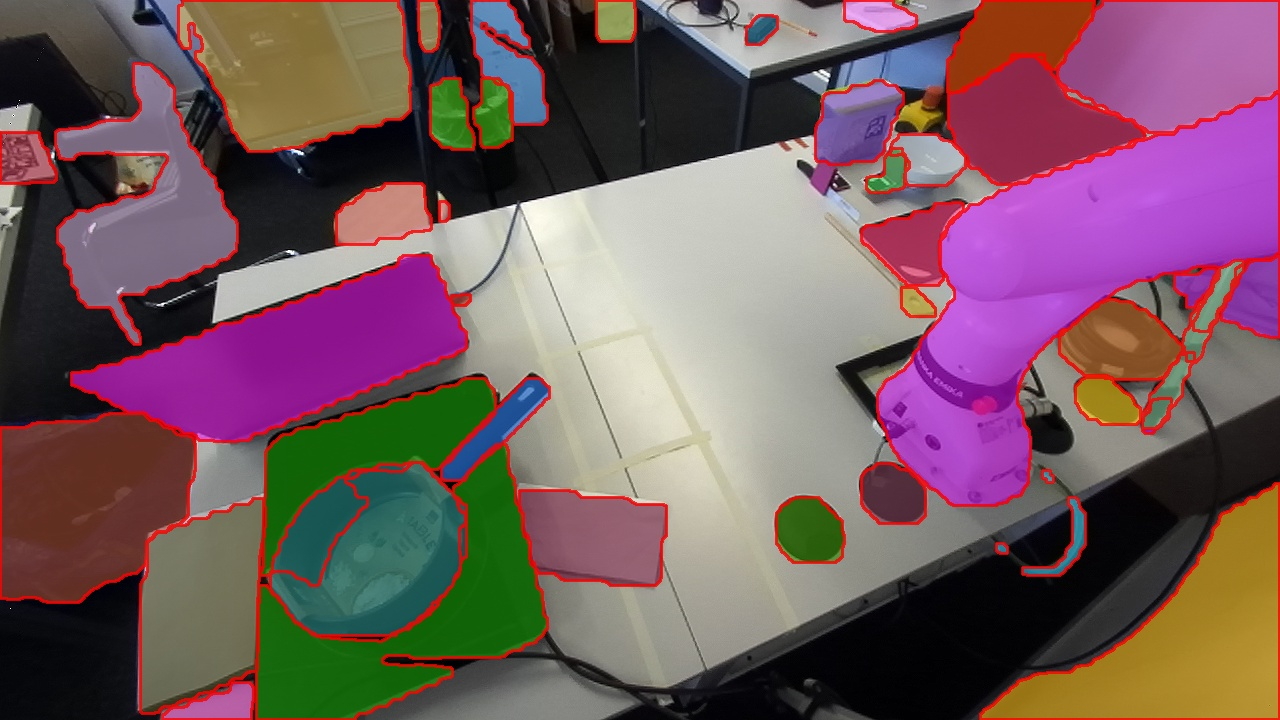
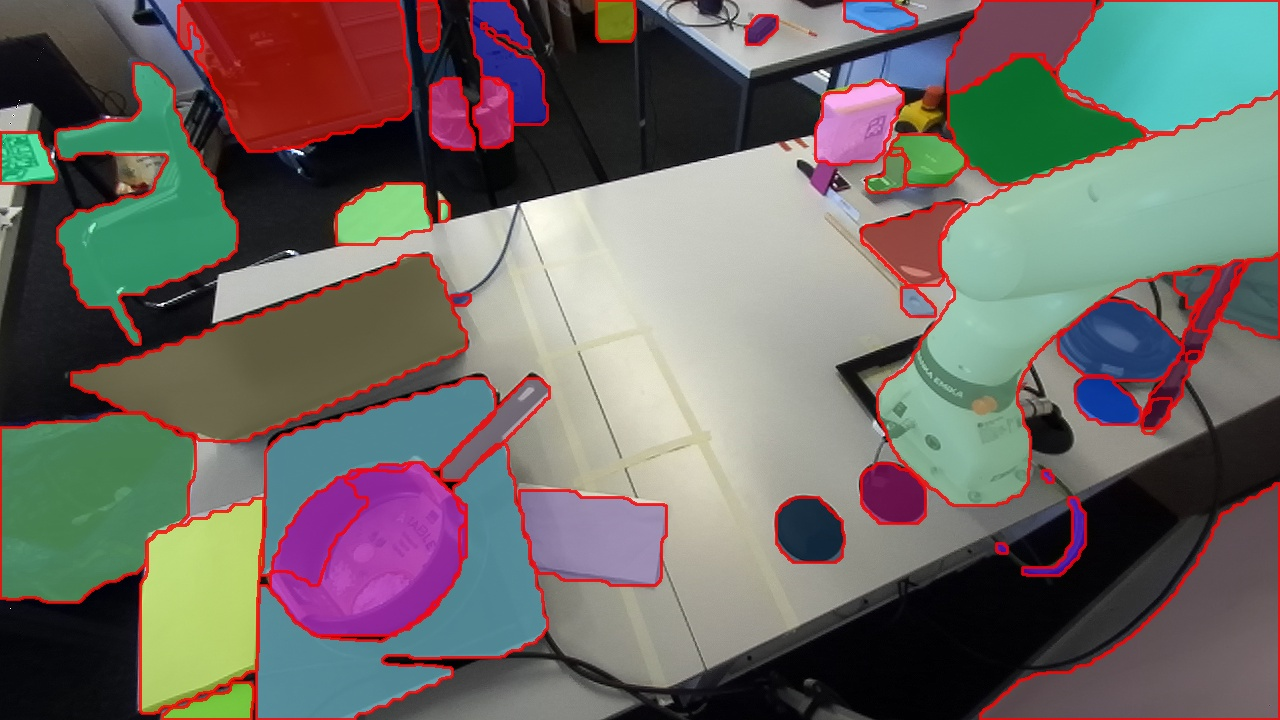
added bpreprocessing (blackening) of input images

diff --git a/match_segmentation.py b/match_segmentation.py
@@ -5,7 +5,7 @@ from tryout import visualize_segmentation
 from segmentation_matching_helpers import *
 import pickle
 from segmentation_matcher import SegmentationMatcher, SegmentationParameters
-
+import time
 
 # Done: overlay both pointclouds
 # Done: filter "complete" pointcloud
@@ -126,18 +126,34 @@ if __name__ == "__main__":
     o3d_intrinsic2 = o3d.camera.PinholeCameraIntrinsic(width=1280, height=720,
                                                        fx=523.68, fy=523.68,
                                                        cx=659.51, cy=365.34)
-
+    print("starting")
+    start_time = time.time()
     segmentation_parameters = SegmentationParameters(736, conf=0.6, iou=0.9)
-    segmenter = SegmentationMatcher(segmentation_parameters, cutoff=2.0, model_path='FastSAM-x.pt')
+    segmenter = SegmentationMatcher(segmentation_parameters, cutoff=1.5, model_path='FastSAM-x.pt')
+    initialization_time = time.time() - start_time
+    print("took ", initialization_time, " to initialize")
     segmenter.set_camera_params([o3d_intrinsic1, o3d_intrinsic2], [H1, H2])
     segmenter.set_images([color_image1, color_image2], [depth_image1, depth_image2])
-    # ToDo: Segmentation seems to be slower when called via this class
-    mask_arrays = segmenter.segment_color_images(device="cpu")
+    segmenter.preprocess_images()
+    image_set_time = time.time() - initialization_time - start_time
+    print("Loading images took ", image_set_time)
+    mask_arrays = segmenter.segment_color_images(device="cpu", filter_masks=True)
+    segmentation_time = time.time() - image_set_time - initialization_time - start_time
+    print("Segmentation took ", segmentation_time)
     segmenter.generate_pointclouds_from_masks()
+    pointcloud_time = time.time() - segmentation_time - image_set_time - initialization_time - start_time
+    print("Creating pointclouds took ", pointcloud_time)
     global_pointclouds = segmenter.project_pointclouds_to_global()
-    # exception free
+    transform_time = time.time() - pointcloud_time - segmentation_time - image_set_time - initialization_time - start_time
+    print("Transforming pointclouds took ", transform_time)
     correspondences, scores = segmenter.match_segmentations(voxel_size=0.05, threshold=0.0)
+    correspondence_time = time.time() - transform_time - pointcloud_time - segmentation_time - image_set_time - initialization_time - start_time
+    print("Finding correspondences took ", correspondence_time)
     corresponding_pointclouds = segmenter.align_corresponding_objects(correspondences, scores)
+    icp_time = time.time() - correspondence_time - transform_time - pointcloud_time - segmentation_time - image_set_time - initialization_time - start_time
+    total_time = time.time() - start_time
+    print("Aligning corresponding point-clouds took ", icp_time)
+    print("Total process took ", total_time)
 
     # ToDo: Maybe we can use fastsam background to help our segmentation (with point prompt)
 
@@ -145,9 +161,9 @@ if __name__ == "__main__":
     pc_array_1 = []
     pc_array_2 = []
     # segmentation parameters
-    fresh_segment = False  # if False, load masks from file, if True segment the image again
+    fresh_segment = True  # if False, load masks from file, if True segment the image again
     segmentation_confidence = 0.6
-    segmentation_iou = 0.8
+    segmentation_iou = 0.9
     image_size = 736
 
     # create scene overview
@@ -190,7 +206,7 @@ if __name__ == "__main__":
         with open('masks2.pkl', 'rb') as f:
             mask_array_2 = pickle.load(f)
 
-    colors_ocv1 = visualize_segmentation(mask_array_1, depth_image1, wait=0)
+    colors_ocv1 = visualize_segmentation(mask_array_1, depth_image1, wait=10)
     for color in colors_ocv1:
         color = color[::-1]  # rgb to bgr (opencv to o3d)
         # color[1] = 0
@@ -204,14 +220,14 @@ if __name__ == "__main__":
                                                                       depth_scale=10000, depth_trunc=cut_off_depth,
                                                                       convert_rgb_to_intensity=False)
         # fill in the extrinsic parameter for bounding box visualization
-        pc = o3d.geometry.PointCloud.create_from_rgbd_image(image=rgbd_img, intrinsic=o3d_intrinsic1, extrinsic=np.linalg.inv(H1))
+        pc = o3d.geometry.PointCloud.create_from_rgbd_image(image=rgbd_img, intrinsic=o3d_intrinsic1)
         # pc.paint_uniform_color(np.divide(colors_ocv1[i], 255))
         # ToDo: Maybe already delete here all the pointclouds outside of the workspace (GLOBAL)
         pc = pc.uniform_down_sample(every_k_points=3)
         # pc, _ = pc.remove_statistical_outlier(nb_neighbors=20, std_ratio=0.99)
         pc, _ = pc.remove_radius_outlier(nb_points=25, radius=0.05)
         # o3d.visualization.draw_geometries([pc], width=1280, height=720)
-        if pc != 1 and len(pc.points) > 100:  # delete all pointclouds with less than 40 points
+        if pc != 1 and len(pc.points) > 100:  # delete all pointclouds with less than 100 points
             pc_array_1.append(pc)
             bbox = pc.get_minimal_oriented_bounding_box()
             bbox.color = (1, 0, 0)
@@ -233,7 +249,7 @@ if __name__ == "__main__":
         rgbd_img = o3d.geometry.RGBDImage.create_from_color_and_depth(o3d_color_2, local_depth,
                                                                       depth_scale=10000, depth_trunc=cut_off_depth,
                                                                       convert_rgb_to_intensity=False)
-        pc = o3d.geometry.PointCloud.create_from_rgbd_image(image=rgbd_img, intrinsic=o3d_intrinsic2, extrinsic=np.linalg.inv(H2))
+        pc = o3d.geometry.PointCloud.create_from_rgbd_image(image=rgbd_img, intrinsic=o3d_intrinsic2)
         # pc.paint_uniform_color(np.divide(colors_ocv2[i], 255))
 
         pc = pc.uniform_down_sample(every_k_points=3)

diff --git a/segmentation_matcher.py b/segmentation_matcher.py
@@ -1,9 +1,11 @@
 import numpy as np
+import open3d.cpu.pybind.geometry
 import open3d.visualization
 import cv2
 from tryout import visualize_segmentation
 from segmentation_matching_helpers import *
 import pickle
+import time
 
 
 class SegmentationParameters:
@@ -46,10 +48,20 @@ class SegmentationMatcher:
         self.color_images = color_images
         self.depth_images = depth_images
 
+    def preprocess_images(self):
+        for i, (depth_image, color_image) in enumerate(zip(self.depth_images, self.color_images)):
+            depth_mask = depth_image > self.max_depth * 10000
+            depth_image[depth_mask] = 0  # should make depth image black at these points -> non-valid pointcloud
+            # Set corresponding color image pixels to 0
+            color_image[np.stack([depth_mask] * 3, axis=-1)] = 0
+            cv2.imshow('color_img', self.color_images[i])
+            cv2.waitKey(0)
+
+
     def set_segmentation_params(self, segmentation_params):
         self.seg_params = segmentation_params
 
-    def segment_color_images(self, device="cpu"):
+    def segment_color_images(self, device="cpu", filter_masks=True):
         # ToDo: test if one can scam runtime of the model by combining the them at the same time
         DEVICE = device
         print("loaded NN model")
@@ -62,7 +74,8 @@ class SegmentationMatcher:
             # everything prompt
             # mask_array = prompt_process.everything_prompt()  # results.mask.data
             annotations = prompt_process._format_results(result=everything_results[0], filter=0)
-            annotations, _ = prompt_process.filter_masks(annotations)
+            if filter_masks:
+                annotations, _ = prompt_process.filter_masks(annotations)
             mask_array = [ann["segmentation"] for ann in annotations]  # is of type np_array
 
             self.mask_arrays.append(mask_array)
@@ -70,25 +83,53 @@ class SegmentationMatcher:
         return self.mask_arrays
 
     def generate_pointclouds_from_masks(self):
+        postprocessing = 0
+        pc_creating = 0
+        rgbd_creating = 0
         point_cloud_arrays = [self.pc_array_1, self.pc_array_2]
+        # ToDo: Find a way to generate way less pointclouds
+        #  maybe by blacking the image where depth is no more interesting
         for i, (mask_array, depth_image, color_image, intrinsic) in enumerate(
                 zip(self.mask_arrays, self.depth_images, self.color_images,
                     self.intrinsics)):
             for mask in mask_array:
+                start_time = time.time()
                 local_depth = o3d.geometry.Image(depth_image * mask)
                 local_color = o3d.geometry.Image(color_image.astype(np.uint8))
+                # Done: Check if creating pointcloud from depth image only is faster and feasible
+                # It speeds up the function call by ca. 1s but makes it impossible to use colored ICP
                 rgbd_img = o3d.geometry.RGBDImage.create_from_color_and_depth(local_color, local_depth,
                                                                               depth_scale=10000,
                                                                               depth_trunc=self.max_depth,
                                                                               convert_rgb_to_intensity=False)
+
                 pc = o3d.geometry.PointCloud.create_from_rgbd_image(image=rgbd_img, intrinsic=intrinsic)
+                rgbd_time = time.time() - start_time
+                rgbd_creating += rgbd_time
+                # pc = open3d.cpu.pybind.geometry.PointCloud.create_from_depth_image(depth=local_depth,
+                # intrinsic=intrinsic,
+                # depth_scale=10000,
+                # depth_trunc=self.max_depth)
+
+                pc_creation_time = time.time() - rgbd_time - start_time
+                pc_creating += pc_creation_time
+
                 # pc.paint_uniform_color(np.divide(colors_ocv1[i], 255))
-                pc = pc.uniform_down_sample(every_k_points=3)
+                pc = pc.uniform_down_sample(every_k_points=4)
                 # pc, _ = pc.remove_statistical_outlier(nb_neighbors=20, std_ratio=0.99)
-                pc, _ = pc.remove_radius_outlier(nb_points=25, radius=0.05)
+                # ToDO: PC filtering is very costly and make sup 60% of the function call.
+                #  However, the quality of the matches is shit without it
+                pc, _ = pc.remove_radius_outlier(nb_points=30, radius=0.05)
+                pc_postprocess_time = time.time() - pc_creation_time - rgbd_time - start_time
+                postprocessing += pc_postprocess_time
+
                 # o3d.visualization.draw_geometries([pc], width=1280, height=720)
                 if len(pc.points) > 100:  # delete all pointclouds with less than 40 points
                     point_cloud_arrays[i].append(pc)
+
+        print("time for creating rgbd image is ", rgbd_creating)
+        print("creating pointcloud took ", pc_creating)
+        print("cleaning pointcloud took ", postprocessing)
 
     def project_pointclouds_to_global(self):
         for pc_array, transform in zip([self.pc_array_1, self.pc_array_2], self.transforms):
@@ -104,6 +145,8 @@ class SegmentationMatcher:
         return correspondences, scores
 
     def align_corresponding_objects(self, correspondences, scores):
+        # ToDo: (Here or in other function) -> take correspondences and create single pointcloud
+        #  out of them for ROS publishing
         corresponding_pointclouds = []
         for pc_tuple, iou in zip(correspondences, scores):
             # align both pointclouds
@@ -127,5 +170,3 @@ class SegmentationMatcher:
             o3d.visualization.draw_geometries(pc_tuple)
 
         return corresponding_pointclouds
-
-
